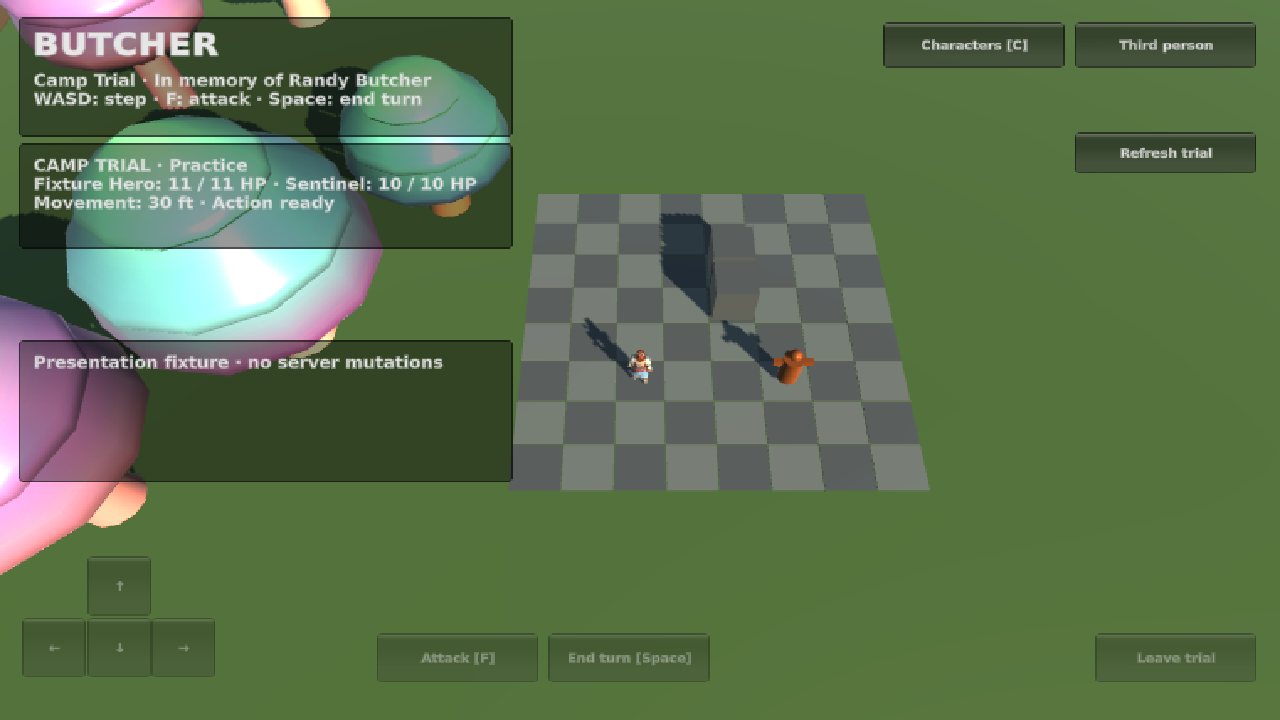
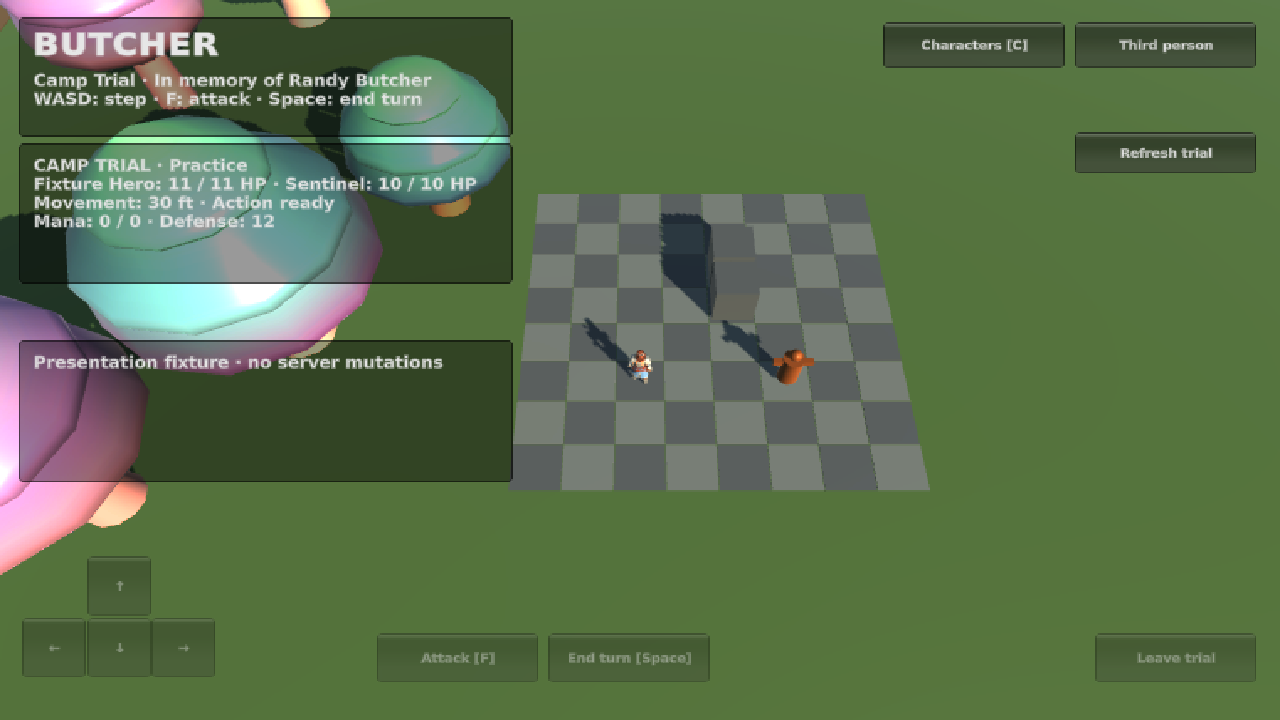
Verify skills-enabled Linux player and weapon trial regression

Changed region(s): [[0.0312, 0.275, 0.4062, 0.3972]]

diff --git a/docs/BUTCHER_CHECKPOINT_2026_11_02.md b/docs/BUTCHER_CHECKPOINT_2026_11_02.md
@@ -43,3 +43,5 @@ Migration `20261102231920_butcher_trial_skills_v2.sql` updates only the new-tria
 Unity adds skill buttons and 1/2 shortcuts, mana/defense display, a cosmetic Spark projectile and a ward aura that clears on expiry. Effects have no collision or damage authority. `Tools/verify_skills.py` uses labelled local fixtures without account access or lab mutations; live signed-in casting remains a later hands-on test.
 
 The skills update passes 37 campaign/rules/endpoint checks plus two migration/packaging checks. Transactional database fixtures passed and rolled back. The Unity skill presentation check passes with zero current errors/warnings, including ward feedback, mana validation, expiry, duplicate suppression and empty-trial resume. Unity JsonUtility materializes some null nested values as empty objects; the client now recognizes an empty encounter ID as no active trial and dispatches ward feedback by explicit skill ID. The character endpoint is version 4 with matching skill descriptions. Signed-in casting remains unverified.
+
+The skills-enabled Linux build (`build_66a3c2d89007`) succeeded at 107,365,022 bytes with zero build errors/warnings. Headless and OpenGL-initialized startup probes both passed against this player, with no sign-in or inventory writes. The original weapon-trial presentation regression also passed. Reports, current captures and player file hashes are refreshed under `unity/Butcher/Verification`. The full signed-in inventory-to-trial-to-casting journey still needs a manual playthrough.
